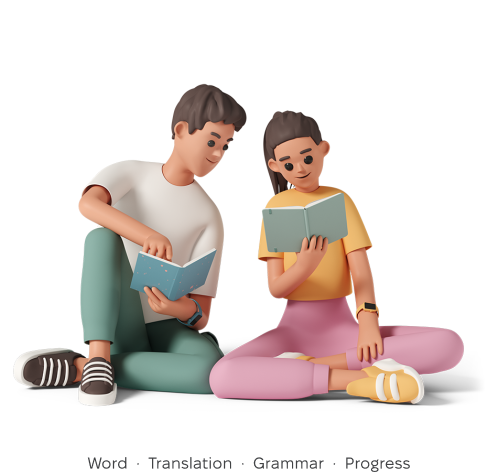
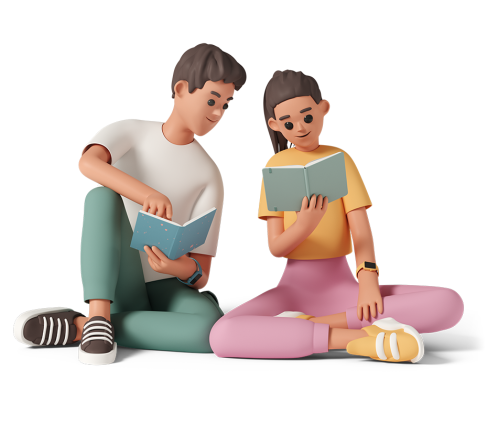
feat: add responsive header navigation

diff --git a/src/components/Header.tsx b/src/components/Header.tsx
@@ -1,0 +1,82 @@
+import {Link} from "react-router-dom";
+import UserBar from "./UserBar.tsx";
+import {useEffect, useState} from "react";
+import NavigationLinks from "./NavigationLinks.tsx";
+import useMediaQuery from "../hooks/useMediaQuery.ts";
+
+const Header = () => {
+    const [isMenuOpen, setIsMenuOpen] = useState(false);
+
+    const isDesktop = useMediaQuery("(min-width: 1024px)");
+    useEffect(() => {
+        if (isDesktop) {
+            setIsMenuOpen(false);
+        }
+    }, [isDesktop]);
+
+    const closeMenu = () => {
+        setIsMenuOpen(false);
+    }
+    return (
+        <>
+            <header>
+                <nav className="flex justify-between items-center">
+                    <div>
+                        <Link to="/">
+                            <img className="h-9 md:h-10" src="/icons/logos/logo.svg" alt='logo'/>
+                        </Link>
+                    </div>
+                    {/* Desktop navigation */}
+                    <div className="hidden lg:block">
+                        <NavigationLinks/>
+                    </div>
+                    <div>
+                        {/* Desktop user */}
+                        <div className='hidden lg:flex items-center gap-4 text-base'>
+                            <UserBar userImage={"/icons/user-green.png"}/>
+                            <button type='button' className="flex items-center gap-2 text-base">Log out <img
+                                src="/icons/arrow-right.png" alt="logout"/>
+                            </button>
+                        </div>
+
+                        {/* Mobile / tablet burger */}
+                        <div className='lg:hidden'>
+                            <button aria-label="Open menu" onClick={() => setIsMenuOpen(true)}>
+                                <img src="/icons/burger-menu.png" alt="menu"/>
+                            </button>
+                        </div>
+                    </div>
+                </nav>
+            </header>
+
+            {/* Mobile / tablet menu */}
+            {isMenuOpen && (
+                <div
+                    className='fixed top-0 right-0 h-dvh z-50 w-[185px] md:w-[300px] flex flex-col justify-between items-start bg-green-background'>
+                    <div className='flex items-center justify-between w-full p-4 md:px-8 md:py-5'>
+                        <UserBar userImage={"/icons/user-white.png"} nameClassName="text-white"/>
+                        <button type='button' onClick={closeMenu} className='w-8 md:w-10' aria-label="Close menu">
+                            <img src='./icons/close.png' alt='close'/>
+                        </button>
+                    </div>
+                    <div className='flex flex-col gap-7 p-4 md:px-8'>
+                        <NavigationLinks onNavigate={closeMenu} mobile/>
+                        <button type='button' className="flex items-center gap-2 text-sm text-white">Log out <img
+                            src="/icons/arrow-right-white.png" alt="logout"/>
+                        </button>
+                    </div>
+                    <div className="w-full flex justify-center overflow-hidden">
+                        <img
+                            src="/images/illustration.png"
+                            alt="Illustration"
+                            className="w-[364px] md:w-[498px] max-w-none shrink-0"
+                        />
+                    </div>
+                </div>
+
+            )}
+        </>
+    )
+}
+
+export default Header;

diff --git a/src/components/NavigationLinks.tsx b/src/components/NavigationLinks.tsx
@@ -1,0 +1,35 @@
+import {NavLink} from "react-router-dom";
+
+const navItems = [
+    {label: "Dictionary", to: "/dictionary"},
+    {label: "Recommend", to: "/recommend"},
+    {label: "Training", to: "/training"},
+];
+
+type NavigationLinksProps = {
+    mobile?: boolean;
+    onNavigate?: () => void;
+}
+
+const NavigationLinks = ({mobile, onNavigate}: NavigationLinksProps) => {
+    return (
+        <div
+            className={mobile ? "flex flex-col gap-7" : "flex gap-12 justify-center items-center"}>
+            {navItems.map(({label, to}) => (
+                <NavLink key={to} to={to} onClick={onNavigate} className={({isActive}) => {
+                    if (mobile) {
+                        return isActive
+                            ? "text-sm px-4 py-2 rounded-xl bg-white text-black"
+                            : "text-sm text-white";
+                    }
+
+                    return isActive
+                        ? "text-sm px-4 py-2 rounded-xl bg-green-accent text-white"
+                        : "text-sm px-4 py-2 text-black";
+                }}>{label}</NavLink>
+            ))}
+        </div>
+    );
+};
+
+export default NavigationLinks;

diff --git a/src/hooks/useMediaQuery.ts b/src/hooks/useMediaQuery.ts
@@ -1,0 +1,26 @@
+import {useEffect, useState} from "react";
+
+const useMediaQuery = (query: string) => {
+    const [matches, setMatches] = useState(() =>
+        window.matchMedia(query).matches
+    );
+
+    useEffect(() => {
+        const mediaQuery = window.matchMedia(query);
+
+        const handleChange = () => {
+            setMatches(mediaQuery.matches);
+        };
+
+        handleChange();
+        mediaQuery.addEventListener("change", handleChange);
+
+        return () => {
+            mediaQuery.removeEventListener("change", handleChange);
+        };
+    }, [query]);
+
+    return matches;
+};
+
+export default useMediaQuery;
